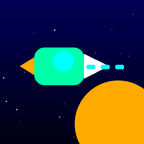
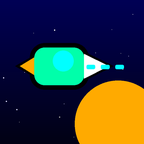
Give the ship sprite a black outline (v1.0.1)
The menu icon and store art draw the ship as four light colours on
transparent (green/white/cyan/orange), which vanished against a light
launcher background. Both gen_icon.py and gen_marketing.py now draw a
black silhouette slightly larger than each shape before the coloured
version, so adjoining shapes' outlines merge into one contiguous edge
around the whole ship.

Changed region(s): [[0.1944, 0.2778, 0.8056, 0.5278], [0.1111, 0.4167, 0.6389, 0.6389]]

diff --git a/tools/gen_icon.py b/tools/gen_icon.py
@@ -19,6 +19,7 @@ GREEN = (0x00, 0xFF, 0xAA, 255)     # GColorMediumSpringGreen (hull)
 WHITE = (255, 255, 255, 255)        # nose
 CYAN = (0x00, 0xFF, 0xFF, 255)      # canopy
 ORANGE = (0xFF, 0xAA, 0x00, 255)    # thruster flame
+BLACK = (0, 0, 0, 255)              # outline, so the ship reads on a light launcher bg
 
 
 def draw_ship(W):
@@ -29,19 +30,32 @@ def draw_ship(W):
         return v * W
 
     cx, cy = s(0.46), s(0.50)
+    ol = s(0.04)   # outline margin -- about 1px once downsampled from the 8x supersample
 
-    # Thruster flame (left).
-    d.polygon([(cx - s(0.42), cy), (cx - s(0.26), cy - s(0.10)),
-               (cx - s(0.26), cy + s(0.10))], fill=ORANGE)
-    # Hull (rounded body).
-    d.rounded_rectangle([cx - s(0.28), cy - s(0.18), cx + s(0.20), cy + s(0.18)],
-                        radius=s(0.10), fill=GREEN)
-    # Nose (right, pointing forward).
-    d.polygon([(cx + s(0.20), cy - s(0.12)), (cx + s(0.42), cy),
-               (cx + s(0.20), cy + s(0.12))], fill=WHITE)
-    # Canopy.
-    cr = s(0.10)
-    d.ellipse([cx - cr, cy - s(0.05) - cr, cx + cr, cy - s(0.05) + cr], fill=CYAN)
+    # Each shape is drawn twice: once black and enlarged by `o` (the outline),
+    # then at its normal size and colour on top. Where shapes touch, the black
+    # halos merge into one contiguous outline around the whole silhouette
+    # instead of outlining each piece separately.
+    def flame(o):
+        d.polygon([(cx - s(0.42) - o, cy), (cx - s(0.26) + o, cy - s(0.10) - o),
+                   (cx - s(0.26) + o, cy + s(0.10) + o)], fill=BLACK if o else ORANGE)
+
+    def hull(o):
+        d.rounded_rectangle([cx - s(0.28) - o, cy - s(0.18) - o, cx + s(0.20) + o, cy + s(0.18) + o],
+                            radius=s(0.10) + o, fill=BLACK if o else GREEN)
+
+    def nose(o):
+        d.polygon([(cx + s(0.20) - o, cy - s(0.12) - o), (cx + s(0.42) + o, cy),
+                   (cx + s(0.20) - o, cy + s(0.12) + o)], fill=BLACK if o else WHITE)
+
+    def canopy(o):
+        cr = s(0.10) + o
+        d.ellipse([cx - cr, cy - s(0.05) - cr, cx + cr, cy - s(0.05) + cr], fill=BLACK if o else CYAN)
+
+    for shape in (flame, hull, nose, canopy):
+        shape(ol)
+    for shape in (flame, hull, nose, canopy):
+        shape(0)
 
     return img
 

diff --git a/tools/gen_marketing.py b/tools/gen_marketing.py
@@ -34,6 +34,7 @@ GRAY = (0xAA, 0xAA, 0xAA, 255)      # drone
 CHROME = (0xFF, 0xAA, 0x00, 255)
 OXFORD = (0x00, 0x00, 0x55)         # space background
 DEEP = (0x02, 0x02, 0x14)
+BLACK = (0, 0, 0, 255)               # ship outline, matching tools/gen_icon.py
 
 FONT_PATH = "/usr/share/fonts/truetype/dejavu/DejaVuSans-Bold.ttf"
 
@@ -61,20 +62,32 @@ def starfield(canvas, n, seed=1):
 
 
 def draw_ship(d, cx, cy, scale):
+    # Matches tools/gen_icon.py's draw_ship: same outline treatment, so the
+    # launcher icon, store icons and banner all show the same silhouette.
     def s(v):
         return v * scale
-    # thruster
-    d.polygon([(cx - s(0.42), cy), (cx - s(0.24), cy - s(0.11)),
-               (cx - s(0.24), cy + s(0.11))], fill=ORANGE)
-    # hull
-    d.rounded_rectangle([cx - s(0.28), cy - s(0.18), cx + s(0.20), cy + s(0.18)],
-                        radius=s(0.10), fill=GREEN)
-    # nose
-    d.polygon([(cx + s(0.20), cy - s(0.12)), (cx + s(0.44), cy),
-               (cx + s(0.20), cy + s(0.12))], fill=WHITE)
-    # canopy
-    cr = s(0.10)
-    d.ellipse([cx - cr, cy - s(0.05) - cr, cx + cr, cy - s(0.05) + cr], fill=CYAN)
+    ol = s(0.045)
+
+    def thruster(o):
+        d.polygon([(cx - s(0.42) - o, cy), (cx - s(0.24) + o, cy - s(0.11) - o),
+                   (cx - s(0.24) + o, cy + s(0.11) + o)], fill=BLACK if o else ORANGE)
+
+    def hull(o):
+        d.rounded_rectangle([cx - s(0.28) - o, cy - s(0.18) - o, cx + s(0.20) + o, cy + s(0.18) + o],
+                            radius=s(0.10) + o, fill=BLACK if o else GREEN)
+
+    def nose(o):
+        d.polygon([(cx + s(0.20) - o, cy - s(0.12) - o), (cx + s(0.44) + o, cy),
+                   (cx + s(0.20) - o, cy + s(0.12) + o)], fill=BLACK if o else WHITE)
+
+    def canopy(o):
+        cr = s(0.10) + o
+        d.ellipse([cx - cr, cy - s(0.05) - cr, cx + cr, cy - s(0.05) + cr], fill=BLACK if o else CYAN)
+
+    for shape in (thruster, hull, nose, canopy):
+        shape(ol)
+    for shape in (thruster, hull, nose, canopy):
+        shape(0)
 
 
 def draw_planet(canvas, cx, cy, r, col):

diff --git a/CHANGELOG.md b/CHANGELOG.md
@@ -1,5 +1,11 @@
 # Changelog
 
+## 1.0.1
+
+- **Menu icon and store art got a black outline** — the ship sprite is four
+  light colours on transparent, which disappeared against a light launcher
+  background. No gameplay changes.
+
 ## 1.0.0
 
 - Initial release: **PBL-7**, a landscape shoot-'em-up for the Pebble Time 2.
